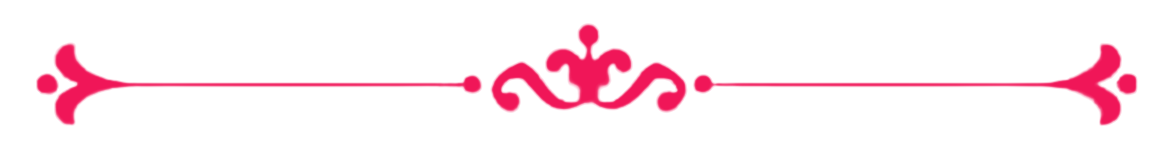
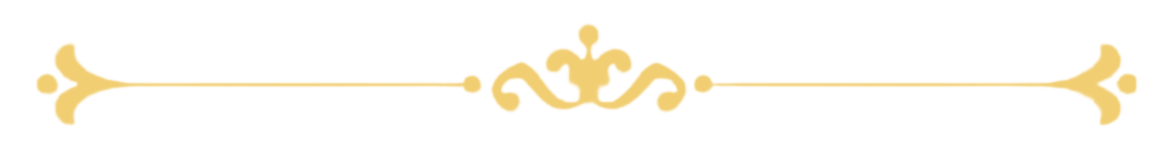
Done

Changed region(s): [[0.031, 0.1506, 0.9905, 0.753]]

diff --git a/index.css b/index.css
@@ -391,7 +391,7 @@ html {
 }
 
 .services-section h2 {
-  font-size: 3vw;
+  font-size: 2.4vw;
   -webkit-background-clip: text;
   background-clip: text;
   color: rgb(0, 0, 0);
@@ -575,7 +575,7 @@ html {
 
 .section-title {
   text-align: center;
-  font-size: 2.5vw;
+  font-size: 2.2vw;
   color: black;
   margin: 50px 0 30px;
   animation: fadeInDown 1s ease-in-out;
